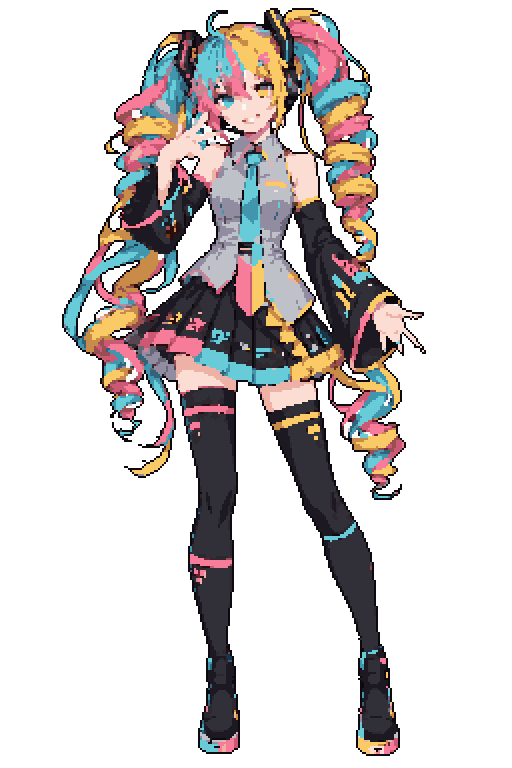
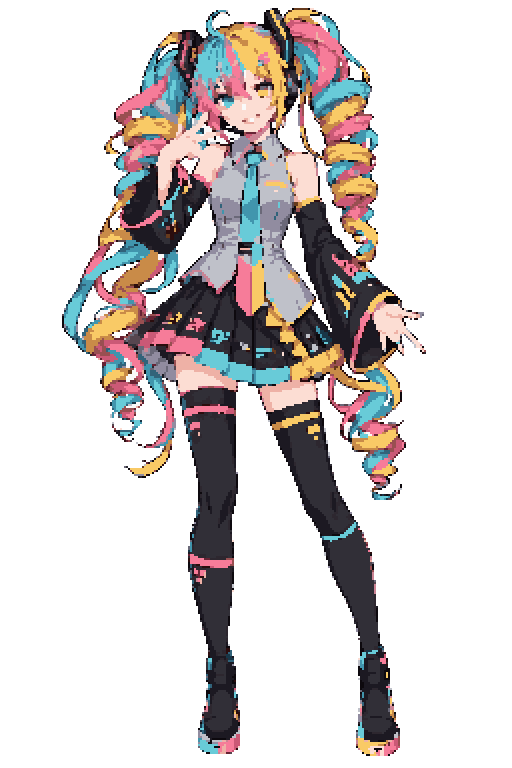
Preserve original silhouette edges in Miku pixel art
Add --keep-edges to pixelate.py: skips the painted outline, the
isolated-pixel cleanup on border pixels and lone-speck removal.

Claude-Session: https://claude.ai/code/session_01QUhEzd9WRdFQCibqXhDnHT

diff --git a/tools/pixelate.py b/tools/pixelate.py
@@ -4,6 +4,9 @@ from collections import deque
 # size: target height, wN for a target width of N, or 'native' to keep the
 # source canvas 1:1 (background made transparent, no crop or resize)
 # optional 5th arg: enclosed white areas larger than this many pixels become background (default 150)
+# --keep-edges: leave silhouette pixels as in the source (no outline, no edge cleanup)
+keep_edges = '--keep-edges' in sys.argv
+if keep_edges: sys.argv.remove('--keep-edges')
 src, size, K, out = sys.argv[1], sys.argv[2], int(sys.argv[3]), sys.argv[4]
 hole = int(sys.argv[5]) if len(sys.argv) > 5 else 150
 im = Image.open(src).convert('RGB')
@@ -52,6 +55,7 @@ for _ in range(2):
     for y in range(H):
         for x in range(W):
             if lab[y,x] < 0: continue
+            if keep_edges and (len(nb4(y,x))<4 or any(lab[p]<0 for p in nb4(y,x))): continue
             if lab[y,x] not in [lab[p] for p in nb4(y,x)]:
                 nb8 = [lab[yy,xx] for yy in (y-1,y,y+1) for xx in (x-1,x,x+1) if 0<=yy<H and 0<=xx<W and (yy,xx)!=(y,x) and lab[yy,xx]>=0]
                 if nb8:
@@ -60,12 +64,13 @@ for _ in range(2):
     lab = new
 for y in range(H):
     for x in range(W):
-        if lab[y,x]>=0 and all(lab[p]<0 for p in nb4(y,x)): lab[y,x]=-1
+        if not keep_edges and lab[y,x]>=0 and all(lab[p]<0 for p in nb4(y,x)): lab[y,x]=-1
 C = C.round().astype(np.uint8)
 dark = int(np.argmin(C.astype(int).sum(1)))
 # outline: silhouette edge pixels -> darkest colour
 edge = [(y,x) for y in range(H) for x in range(W) if lab[y,x]>=0 and (len(nb4(y,x))<4 or any(lab[p]<0 for p in nb4(y,x)))]
-for p in edge: lab[p] = dark
+if not keep_edges:
+    for p in edge: lab[p] = dark
 o = np.zeros((H,W,4),np.uint8); m = lab>=0
 o[m,:3] = C[lab[m]]; o[m,3]=255
 Image.fromarray(o,'RGBA').save(out)
